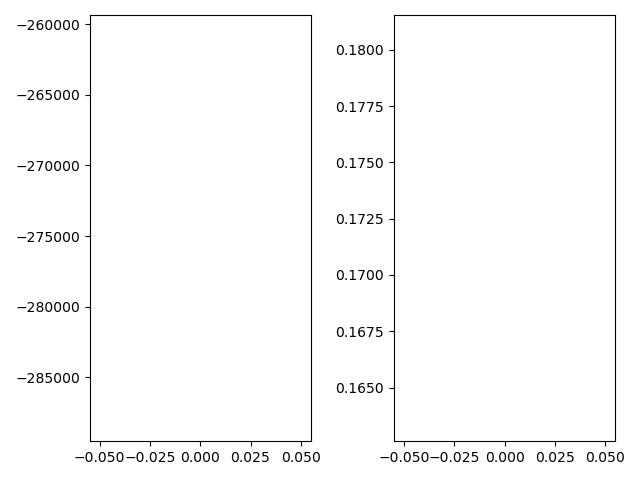
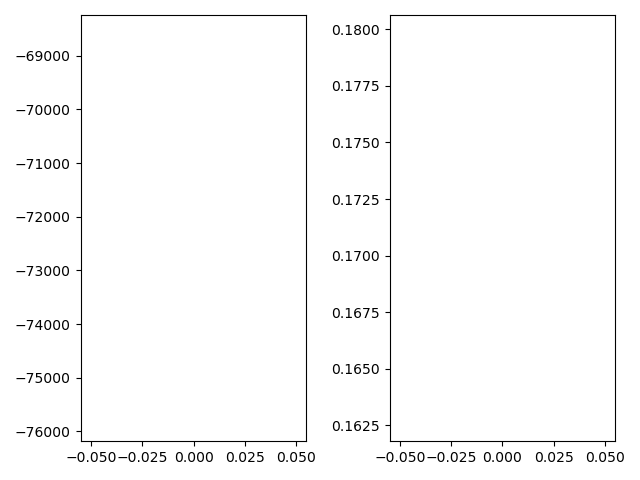
change to spearman in MCC, add some new ideas

diff --git a/utils.py b/utils.py
@@ -137,7 +137,7 @@ def fill_triu(triu_elements, N):
     return U.at[jnp.triu_indices(N)].set(triu_elements)
 
 
-def matching_sources_corr(est_sources, true_sources, method="pearson"):
+def matching_sources_corr(est_sources, true_sources, method="spearman"):
     """Finding matching indices between true and estimated sources.
     Args:
         est_sources (array): data on estimated independent components.
